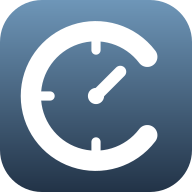
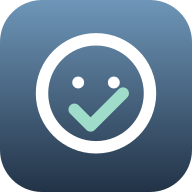
Los modelos faciales viajan dentro del APK, ya no se bajan
La app Android es un cascaron: el WebView carga la web remota, que asi se
actualiza sola. Pero eso valia para el codigo, no para los modelos: la
primera arrancada en cada aparato bajaba 25 MB comprimidos —12 solo de
ArcFace— y en 4G lento son unos 40 segundos de pantalla muerta.

Los modelos casi nunca cambian. Ahora viajan dentro del APK y
ModelosLocales.java intercepta `/models/` y `/wasm/` para servirlos del disco
del telefono. La web los pide igual que siempre, sin enterarse. La primera
arrancada baja CERO.

Empaquetar el APK NO era la solucion por si mismo: `capacitor.config.json`
apunta a la web remota, asi que hasta hoy la APK descargaba exactamente lo
mismo que la PWA. Lo que cambia las cosas es meter los modelos, no el
formato de la app.

  - `scripts/empaquetar-modelos.mjs` copia SOLO lo que el kiosco carga: 15
    archivos, 55 MB en disco que el APK comprime a 30. Deja fuera el motor
    JSEP de onnxruntime (26 MB) que no se usa, y avisa si aparece un modelo
    pesado sin empaquetar.
  - Un archivo que no este empaquetado se sigue bajando de la red. Es a
    proposito: publicar un modelo nuevo tiene que funcionar aunque la APK
    instalada sea vieja.
  - El tipo de contenido se fija a mano: `WebAssembly` solo compila en
    streaming si la respuesta dice `application/wasm`.

Verificado: el Java compila, el APK se arma (35 MB) y los 15 archivos estan
dentro. 3 pruebas nuevas evitan que las rutas del codigo y las que intercepta
el Java se desincronicen en silencio.

Changed region(s): [[0.0938, 0.0938, 0.8438, 0.9062], [0.3438, 0.3438, 0.6875, 0.6875], [0.375, 0.375, 0.4375, 0.4688]]

diff --git a/attendance-prototype/components/AdminPanel.jsx b/attendance-prototype/components/AdminPanel.jsx
@@ -4868,10 +4868,11 @@ const CSS = `
     color: var(--muted); font-weight: 700; margin: 14px 0 4px; padding: 0 12px;
   }
   .cfg-item {
-    display: flex; align-items: center; gap: 10px; width: 100%; text-align: left;
+    display: flex; align-items: center; gap: 10px; width: 100%; min-width: 0; text-align: left;
     padding: 8px 12px; border: 0; border-radius: 9px; background: transparent;
     font: inherit; font-size: 13px; font-weight: 500; color: var(--ink-2);
     cursor: pointer; text-decoration: none;
+    overflow: hidden; text-overflow: ellipsis; white-space: nowrap;
   }
   .cfg-item:hover { background: var(--accent-soft); }
   .cfg-item.on { background: var(--accent-soft); color: var(--btn-primary); font-weight: 600; }
@@ -4882,7 +4883,11 @@ const CSS = `
 .card.grow { flex: 1 1 auto; min-height: 0; display: flex; flex-direction: column; }
 .card h2 { font-family: var(--f-display); font-size: 13.5px; font-weight: 700; letter-spacing: .02em; margin-bottom: 2px; color: var(--ink); }
 .card .hint { font-size: 13px; color: var(--muted); margin-bottom: 10px; }
-.scrollable { overflow-y: auto; flex: 1 1 auto; min-height: 0; overscroll-behavior: contain; padding-right: 2px; }
+/* En MÓVIL las listas NO capturan el gesto: hay un solo scroll (la página) y
+   tocar sobre una fila también desplaza la pantalla. El scroll interno con
+   overscroll-behavior contain que atrapaba el dedo vive solo en PC (abajo,
+   en el bloque de 900px o más), donde cada tarjeta sí scrollea por su cuenta. */
+.scrollable { flex: 1 1 auto; min-height: 0; padding-right: 2px; }
 .axis-note { font-size: 12px; color: var(--muted); margin-top: 8px; }
 .empty { color: var(--muted); font-size: 14px; padding: 8px 0; }
 
@@ -4965,7 +4970,7 @@ const CSS = `
 /* Filtro global de sede (select en el menú lateral, móvil y PC) */
 .side-sede { display: flex; flex-direction: column; align-items: stretch; gap: 4px; padding: 4px 6px 12px; border-bottom: 1px solid var(--grid); margin-bottom: 8px; }
 .side-sede-lbl { font-size: 10px; letter-spacing: .08em; text-transform: uppercase; color: var(--muted); font-weight: 600; }
-.sede-select { flex: 1; font: inherit; font-size: 13px; font-weight: 600; padding: 8px 10px; border-radius: 10px; border: 1px solid var(--border); background: var(--surface); color: var(--ink); cursor: pointer; }
+.sede-select { flex: 1; min-width: 0; max-width: 100%; font: inherit; font-size: 13px; font-weight: 600; padding: 8px 10px; border-radius: 10px; border: 1px solid var(--border); background: var(--surface); color: var(--ink); cursor: pointer; }
 .sede-select:hover { background: var(--accent-soft); }
 .sede-select:focus-visible { outline: 2px solid var(--accent); outline-offset: 2px; }
 
@@ -5319,13 +5324,16 @@ const CSS = `
   position: relative; border: 0; background: transparent; color: var(--ink-2);
   font-family: var(--f-body); font-size: 13.5px; font-weight: 600; cursor: pointer;
   display: flex; flex-direction: row; align-items: center; gap: 12px;
-  width: 100%; text-align: left; padding: 11px 12px; border-radius: 9px;
+  width: 100%; min-width: 0; text-align: left; padding: 11px 12px; border-radius: 9px;
 }
 .tabbar > button .icon, .tabbar .lock-btn .icon { display: flex; line-height: 1; flex: 0 0 auto; }
+/* La etiqueta de cada ítem puede ENCOGERSE con elipsis: nada se sale del
+   menú aunque el nombre sea largo o el ancho apriete. */
+.tabbar .lbl { flex: 1 1 auto; min-width: 0; overflow: hidden; text-overflow: ellipsis; white-space: nowrap; }
 .tabbar > button[aria-pressed="true"] { color: var(--accent); background: var(--accent-soft); }
 .tabbar .lock-btn { color: var(--muted); margin-top: auto; }
 .tabbar .lock-btn:hover { background: var(--crit-soft); color: var(--crit-text); }
-.tabbar .badge { position: static; margin-left: auto; min-width: 18px; height: 18px; border-radius: 9px; background: var(--accent); color: #fff; font-size: 10.5px; font-weight: 700; display: flex; align-items: center; justify-content: center; padding: 0 5px; }
+.tabbar .badge { position: static; margin-left: auto; flex: 0 0 auto; min-width: 18px; height: 18px; border-radius: 9px; background: var(--accent); color: #fff; font-size: 10.5px; font-weight: 700; display: flex; align-items: center; justify-content: center; padding: 0 5px; }
 
 /* Cabecera del menú (logo + marca): visible también en móvil */
 .side-foot { display: block; padding: 10px 12px 2px; font-size: 10px; color: var(--muted); font-family: var(--f-data); letter-spacing: .08em; text-transform: uppercase; }
@@ -5587,10 +5595,12 @@ input[type='number'] { -moz-appearance: textfield; appearance: textfield; }
 .btn.small { font-size: 12px; padding: 4px 10px; }
 .ev-form { border: 1px solid var(--grid); border-radius: 8px; padding: 12px; background: var(--surface-blanca); display: flex; flex-direction: column; gap: 10px; margin-top: 6px; }
 .ev-form h4 { font-size: 13px; font-weight: 700; }
-.ev-form label { display: flex; flex-direction: column; gap: 4px; font-size: 12.5px; font-weight: 600; color: var(--ink-2); }
-.ev-form-row { display: flex; gap: 10px; }
-.ev-form-row label { flex: 1; }
-.ev-form input, .ev-form select { font: inherit; font-size: 13.5px; padding: 7px 10px; border-radius: 6px; border: 1px solid var(--grid); background: var(--surface); color: var(--ink); }
+.ev-form label { display: flex; flex-direction: column; gap: 4px; font-size: 12.5px; font-weight: 600; color: var(--ink-2); min-width: 0; }
+/* La fila ENVUELVE: en pantallas angostas los campos caen uno debajo del
+   otro en vez de salirse del borde (el NIT se veía cortado en el celular). */
+.ev-form-row { display: flex; flex-wrap: wrap; gap: 10px; }
+.ev-form-row label { flex: 1 1 140px; }
+.ev-form input, .ev-form select { font: inherit; font-size: 13.5px; padding: 7px 10px; border-radius: 6px; border: 1px solid var(--grid); background: var(--surface); color: var(--ink); width: 100%; min-width: 0; max-width: 100%; box-sizing: border-box; }
 
 /* ─── Acordeón (móvil): reemplaza a las tablas para evitar scroll lateral ─── */
 .att-tablewrap { display: none; }
@@ -5730,14 +5740,17 @@ input[type='number'] { -moz-appearance: textfield; appearance: textfield; }
   /* sidebar y encabezado separados por línea divisoria sobria */
   .tabbar { background: var(--surface); border-right: 1px solid var(--grid); box-shadow: none; }
   .app-header { box-shadow: none; position: relative; z-index: 2; }
-  /* Móvil: la barra es angosta — todo se compacta y el logo CR se oculta
+  /* Móvil: la barra es angosta — todo se compacta y el logo se oculta
      (la marca completa vive en el menú); sin esto el avatar se salía del
      borde redondeado de la barra. */
   .app-header { gap: 6px; padding: 8px 8px; }
+  .head-logo { display: none; }
   .menu-btn { width: 36px; height: 36px; }
+  .head-back { width: 34px; height: 34px; }
   .head-marca { gap: 7px; }
-  .head-right { gap: 8px; }
-  .head-guia { font-size: 11px; padding: 5px 9px; }
+  /* La derecha puede ENCOGERSE (la guía cede con elipsis): nada se sale. */
+  .head-right { gap: 8px; min-width: 0; flex: 0 1 auto; }
+  .head-guia { font-size: 11px; padding: 5px 9px; max-width: 36vw; overflow: hidden; text-overflow: ellipsis; }
   /* En móvil el subtítulo (pestaña · fecha) SÍ se muestra: es la única señal
      de en qué pantalla estás ahora que el título es la marca. */
   .app-header .date-note { font-size: 10.5px; }
@@ -5775,11 +5788,14 @@ input[type='number'] { -moz-appearance: textfield; appearance: textfield; }
    altura que la asistencia de al lado. */
 .dash-lado > .card:last-child { flex: 1 1 auto; }
 .asistencia-card { min-width: 0; display: flex; flex-direction: column; }
-.asistencia-card .scrollable { flex: 1 1 auto; min-height: 0; max-height: 470px; overflow-y: auto; }
 /* Las tarjetas de la fila 2 (horas y costos) se estiran a la misma altura. */
 .dash-grid .card.grow { min-height: 0; }
-.dash-grid .card.grow .scrollable { flex: 1 1 auto; min-height: 0; max-height: 360px; overflow-y: auto; }
 @media (min-width: 900px) {
+  /* Scroll INTERNO de las tarjetas: solo en PC. En móvil estas alturas
+     creaban scrolls anidados que atrapaban el dedo sobre las filas. */
+  .scrollable { overflow-y: auto; overscroll-behavior: contain; }
+  .asistencia-card .scrollable { max-height: 470px; }
+  .dash-grid .card.grow .scrollable { max-height: 360px; }
   /* Dos columnas compartidas por ambas filas, con el MISMO ancho por columna.
      Fila 1: horas + costos (compactas). Fila 2: asistencia + indicadores.
      En móvil se conserva el orden del DOM (asistencia primero). */

diff --git a/attendance-prototype/app/login/page.jsx b/attendance-prototype/app/login/page.jsx
@@ -1,7 +1,7 @@
 'use client'
 
 /**
- * app/login/page.jsx — Inicio de sesión de Control Registro.
+ * app/login/page.jsx — Inicio de sesión de AsistencIA.
  *
  * Pantalla dividida: a la izquierda la marca e información del sistema, a la
  * derecha el formulario. Usuarios PROPIOS del sistema (esquema `asistencia`).
@@ -20,19 +20,15 @@ export default function LoginPage() {
   )
 }
 
-/* Logotipo oficial «C-dial»: la C como carátula de reloj con marcas de hora
-   y una manecilla. El mismo arte de public/icon.svg, en blanco. */
-function LogoControlRegistro({ size = 72 }) {
+/* Logotipo oficial «Presente ✓»: un rostro cuya mandíbula es un chulo de
+   verificación. El mismo arte de public/icon.svg, en blanco y aguamarina. */
+function LogoAsistencia({ size = 72 }) {
   return (
     <svg width={size} height={size} viewBox="0 0 64 64" aria-hidden="true">
-      <g stroke="#fff" strokeLinecap="round" fill="none">
-        <path d="M 51 17.5 A 24 24 0 1 0 51 46.5" strokeWidth="7.5" />
-        <line x1="32" y1="10" x2="32" y2="15" strokeWidth="3.4" />
-        <line x1="10" y1="32" x2="15" y2="32" strokeWidth="3.4" />
-        <line x1="32" y1="49" x2="32" y2="54" strokeWidth="3.4" />
-        <circle cx="32" cy="32" r="3" fill="#fff" stroke="none" />
-        <line x1="32" y1="32" x2="41" y2="23" strokeWidth="4.4" />
-      </g>
+      <circle cx="32" cy="31" r="20" stroke="#fff" strokeWidth="4.6" fill="none" />
+      <circle cx="25.4" cy="27" r="2.2" fill="#fff" />
+      <circle cx="38.6" cy="27" r="2.2" fill="#fff" />
+      <path d="M 24 37 l 6 6 l 12 -12" stroke="#9fdcca" strokeWidth="4.4" strokeLinecap="round" strokeLinejoin="round" fill="none" />
     </svg>
   )
 }
@@ -162,10 +158,10 @@ function LoginForm() {
           color: '#fff',
         }}
       >
-        <LogoControlRegistro />
+        <LogoAsistencia />
         <div>
           <h1 style={{ margin: 0, fontSize: 32, fontWeight: 800, letterSpacing: -0.5 }}>
-            Control Registro
+            Asistenc<span style={{ color: '#9fdcca' }}>IA</span>
           </h1>
           <p style={{ margin: '8px 0 0', fontSize: 16, opacity: 0.85, maxWidth: 420 }}>
             Registro y control de asistencia para tu empresa: entradas, salidas

diff --git a/attendance-prototype/components/KioskMode.jsx b/attendance-prototype/components/KioskMode.jsx
@@ -1045,7 +1045,7 @@ export default function KioskMode() {
         // toques y bloqueaba el botón "Iniciar kiosco" debajo.
         pointerEvents: running ? 'auto' : 'none',
       }}>
-        <span style={s.hudMarca}>CONTROL <span style={{ color: 'var(--accent)' }}>REGISTRO</span></span>
+        <span style={s.hudMarca}>ASISTENC<span style={{ color: 'var(--accent)' }}>IA</span></span>
         {/* Detener es la ÚNICA vía al reposo: marca la parada como manual
             para que el auto-arranque no vuelva a encender la cámara solo. */}
         <button style={s.hudDetener} onClick={() => { setDetenido(true); setStatusNote('Kiosco en pausa.'); stopAll(); }}>⏹ Detener</button>
@@ -1147,7 +1147,7 @@ export default function KioskMode() {
           es la pantalla de cámara de arriba) */}
       {(ui === 'idle' && !running) && (
         <div className="kiosk-idle" style={s.idle}>
-          <div style={s.brand}>CONTROL <span style={{ color: 'var(--accent)' }}>REGISTRO</span></div>
+          <div style={s.brand}>ASISTENC<span style={{ color: 'var(--accent)' }}>IA</span></div>
           <div style={s.clock}>{clock.time}</div>
           <div style={s.date}>{clock.date}</div>
           <div style={s.idleOval}>

diff --git a/attendance-prototype/lib/correo.js b/attendance-prototype/lib/correo.js
@@ -78,7 +78,7 @@ export async function enviarComprobanteMarcacion({ para, nombre, tipo, ts, sede,
   const html = `
   <div style="font-family:system-ui,-apple-system,'Segoe UI',sans-serif;max-width:480px;margin:0 auto;border:1px solid #d8e2ee;border-radius:14px;overflow:hidden">
     <div style="background:#3a5570;color:#fff;padding:14px 20px;font-weight:800;letter-spacing:.08em;font-size:13px">
-      CONTROL <span style="color:#9fc0da">REGISTRO</span>
+      ASISTENC<span style="color:#9fdcca">IA</span>
     </div>
     <div style="padding:22px 20px;color:#233240">
       <div style="font-size:15px;font-weight:800;color:${color}">${titulo}</div>
@@ -98,7 +98,7 @@ export async function enviarComprobanteMarcacion({ para, nombre, tipo, ts, sede,
 
   try {
     await t.sendMail({
-      from: `Control Registro <${conf().from}>`,
+      from: `AsistencIA <${conf().from}>`,
       to: para,
       subject: `${esEntrada ? 'Entrada' : 'Salida'} registrada — ${hora}`,
       html,

diff --git a/attendance-prototype/cascaron-webview/index.html b/attendance-prototype/cascaron-webview/index.html
@@ -6,7 +6,7 @@
 <head>
   <meta charset="utf-8" />
   <meta name="viewport" content="width=device-width, initial-scale=1, viewport-fit=cover" />
-  <title>Control Registro</title>
+  <title>AsistencIA</title>
   <style>
     body { margin: 0; min-height: 100dvh; display: flex; flex-direction: column; align-items: center; justify-content: center; gap: 12px; font-family: system-ui, sans-serif; background: #16224e; color: #fff; text-align: center; padding: 24px; }
     b { letter-spacing: .08em; }
@@ -15,7 +15,7 @@
   </style>
 </head>
 <body>
-  <b>CONTROL REGISTRO</b>
+  <b>ASISTENCIA</b>
   <p>Sin conexión con el servidor. Verifica el internet del dispositivo y vuelve a intentar.</p>
   <button onclick="location.reload()">Reintentar</button>
 </body>

diff --git a/attendance-prototype/components/DefinirContrasena.jsx b/attendance-prototype/components/DefinirContrasena.jsx
@@ -58,10 +58,10 @@ export default function DefinirContrasena({ correo, alTerminar }) {
       <style>{CSS}</style>
 
       <form className="dc-card" onSubmit={guardar}>
-        <p className="dc-brand">CONTROL <span>REGISTRO</span></p>
+        <p className="dc-brand">ASISTENC<span>IA</span></p>
         <h1>Crea tu contraseña</h1>
         <p className="dc-sub">
-          Ya entraste con Google. Ponle ahora una contraseña a Control Registro para poder
+          Ya entraste con Google. Ponle ahora una contraseña a AsistencIA para poder
           entrar <b>desde el celular</b>, donde Google no funciona.
         </p>
 

diff --git a/attendance-prototype/app/layout.jsx b/attendance-prototype/app/layout.jsx
@@ -15,7 +15,7 @@ const montserrat = Montserrat({
 });
 
 export const metadata = {
-  title: 'Control Registro',
+  title: 'AsistencIA',
   // PWA instalable: sin manifest con íconos 192/512, Chrome ofrece "agregar
   // a inicio" pero RECHAZA la instalación real como app.
   manifest: '/manifest.webmanifest',
@@ -29,7 +29,7 @@ export const metadata = {
   },
   appleWebApp: {
     capable: true,
-    title: 'Control Registro',
+    title: 'AsistencIA',
     statusBarStyle: 'default',
   },
 };

diff --git a/attendance-prototype/app/admin/bienvenida/page.jsx b/attendance-prototype/app/admin/bienvenida/page.jsx
@@ -19,7 +19,7 @@ import { boldActivo } from '../../../lib/bold.js'
 import { control, conEmpresa } from '../../../lib/db.js'
 import Bienvenida from '../../../components/Bienvenida.jsx'
 
-export const metadata = { title: 'Tu plan — Control Registro', robots: { index: false, follow: false } }
+export const metadata = { title: 'Tu plan — AsistencIA', robots: { index: false, follow: false } }
 export const dynamic = 'force-dynamic'
 
 export default async function BienvenidaPage() {

diff --git a/attendance-prototype/services/webauthnService.js b/attendance-prototype/services/webauthnService.js
@@ -145,7 +145,7 @@ export async function registerDevice(employeeId, employeeName = employeeId) {
   const credential = await navigator.credentials.create({
     publicKey: {
       challenge: randomChallenge(),
-      rp: { name: 'Control Registro' }, // rp.id se infiere del dominio (localhost en dev)
+      rp: { name: 'AsistencIA' }, // rp.id se infiere del dominio (localhost en dev)
       user: {
         id: stringToBuffer(employeeId),
         name: employeeId,

diff --git a/attendance-prototype/app/api/pago/iniciar/route.js b/attendance-prototype/app/api/pago/iniciar/route.js
@@ -71,7 +71,7 @@ export async function POST(req) {
     // A dónde vuelve la persona tras pagar. Es solo cortesía visual: la
     // activación la hace el webhook.
     urlRetorno: `${origen}/admin/ajustes/plan?pago=listo`,
-    descripcion: `Control Registro · plan ${plan.nombre} · ${meses} mes${meses === 1 ? '' : 'es'}`,
+    descripcion: `AsistencIA · plan ${plan.nombre} · ${meses} mes${meses === 1 ? '' : 'es'}`,
   })
 
   await control(

diff --git a/attendance-prototype/components/Bienvenida.jsx b/attendance-prototype/components/Bienvenida.jsx
@@ -73,7 +73,7 @@ export default function Bienvenida({ empresa, plan, catalogo }) {
       <style>{CSS}</style>
 
       <header className="bv-top">
-        <span className="bv-marca">CONTROL <span>REGISTRO</span></span>
+        <span className="bv-marca">ASISTENC<span>IA</span></span>
         <button className="bv-omitir" onClick={omitir} disabled={ocupado}>Omitir</button>
       </header>
 

diff --git a/attendance-prototype/lib/bold.js b/attendance-prototype/lib/bold.js
@@ -122,7 +122,7 @@ export function datosDeCheckout({ empresaId, monto, urlRetorno, descripcion }) {
         moneda: cfg.moneda,
         secreto: cfg.secreto,
       }),
-      description: descripcion ?? 'Plan Empresa · Control Registro',
+      description: descripcion ?? 'Plan Empresa · AsistencIA',
       ...(urlRetorno ? { redirectionUrl: urlRetorno } : {}),
     },
   }
